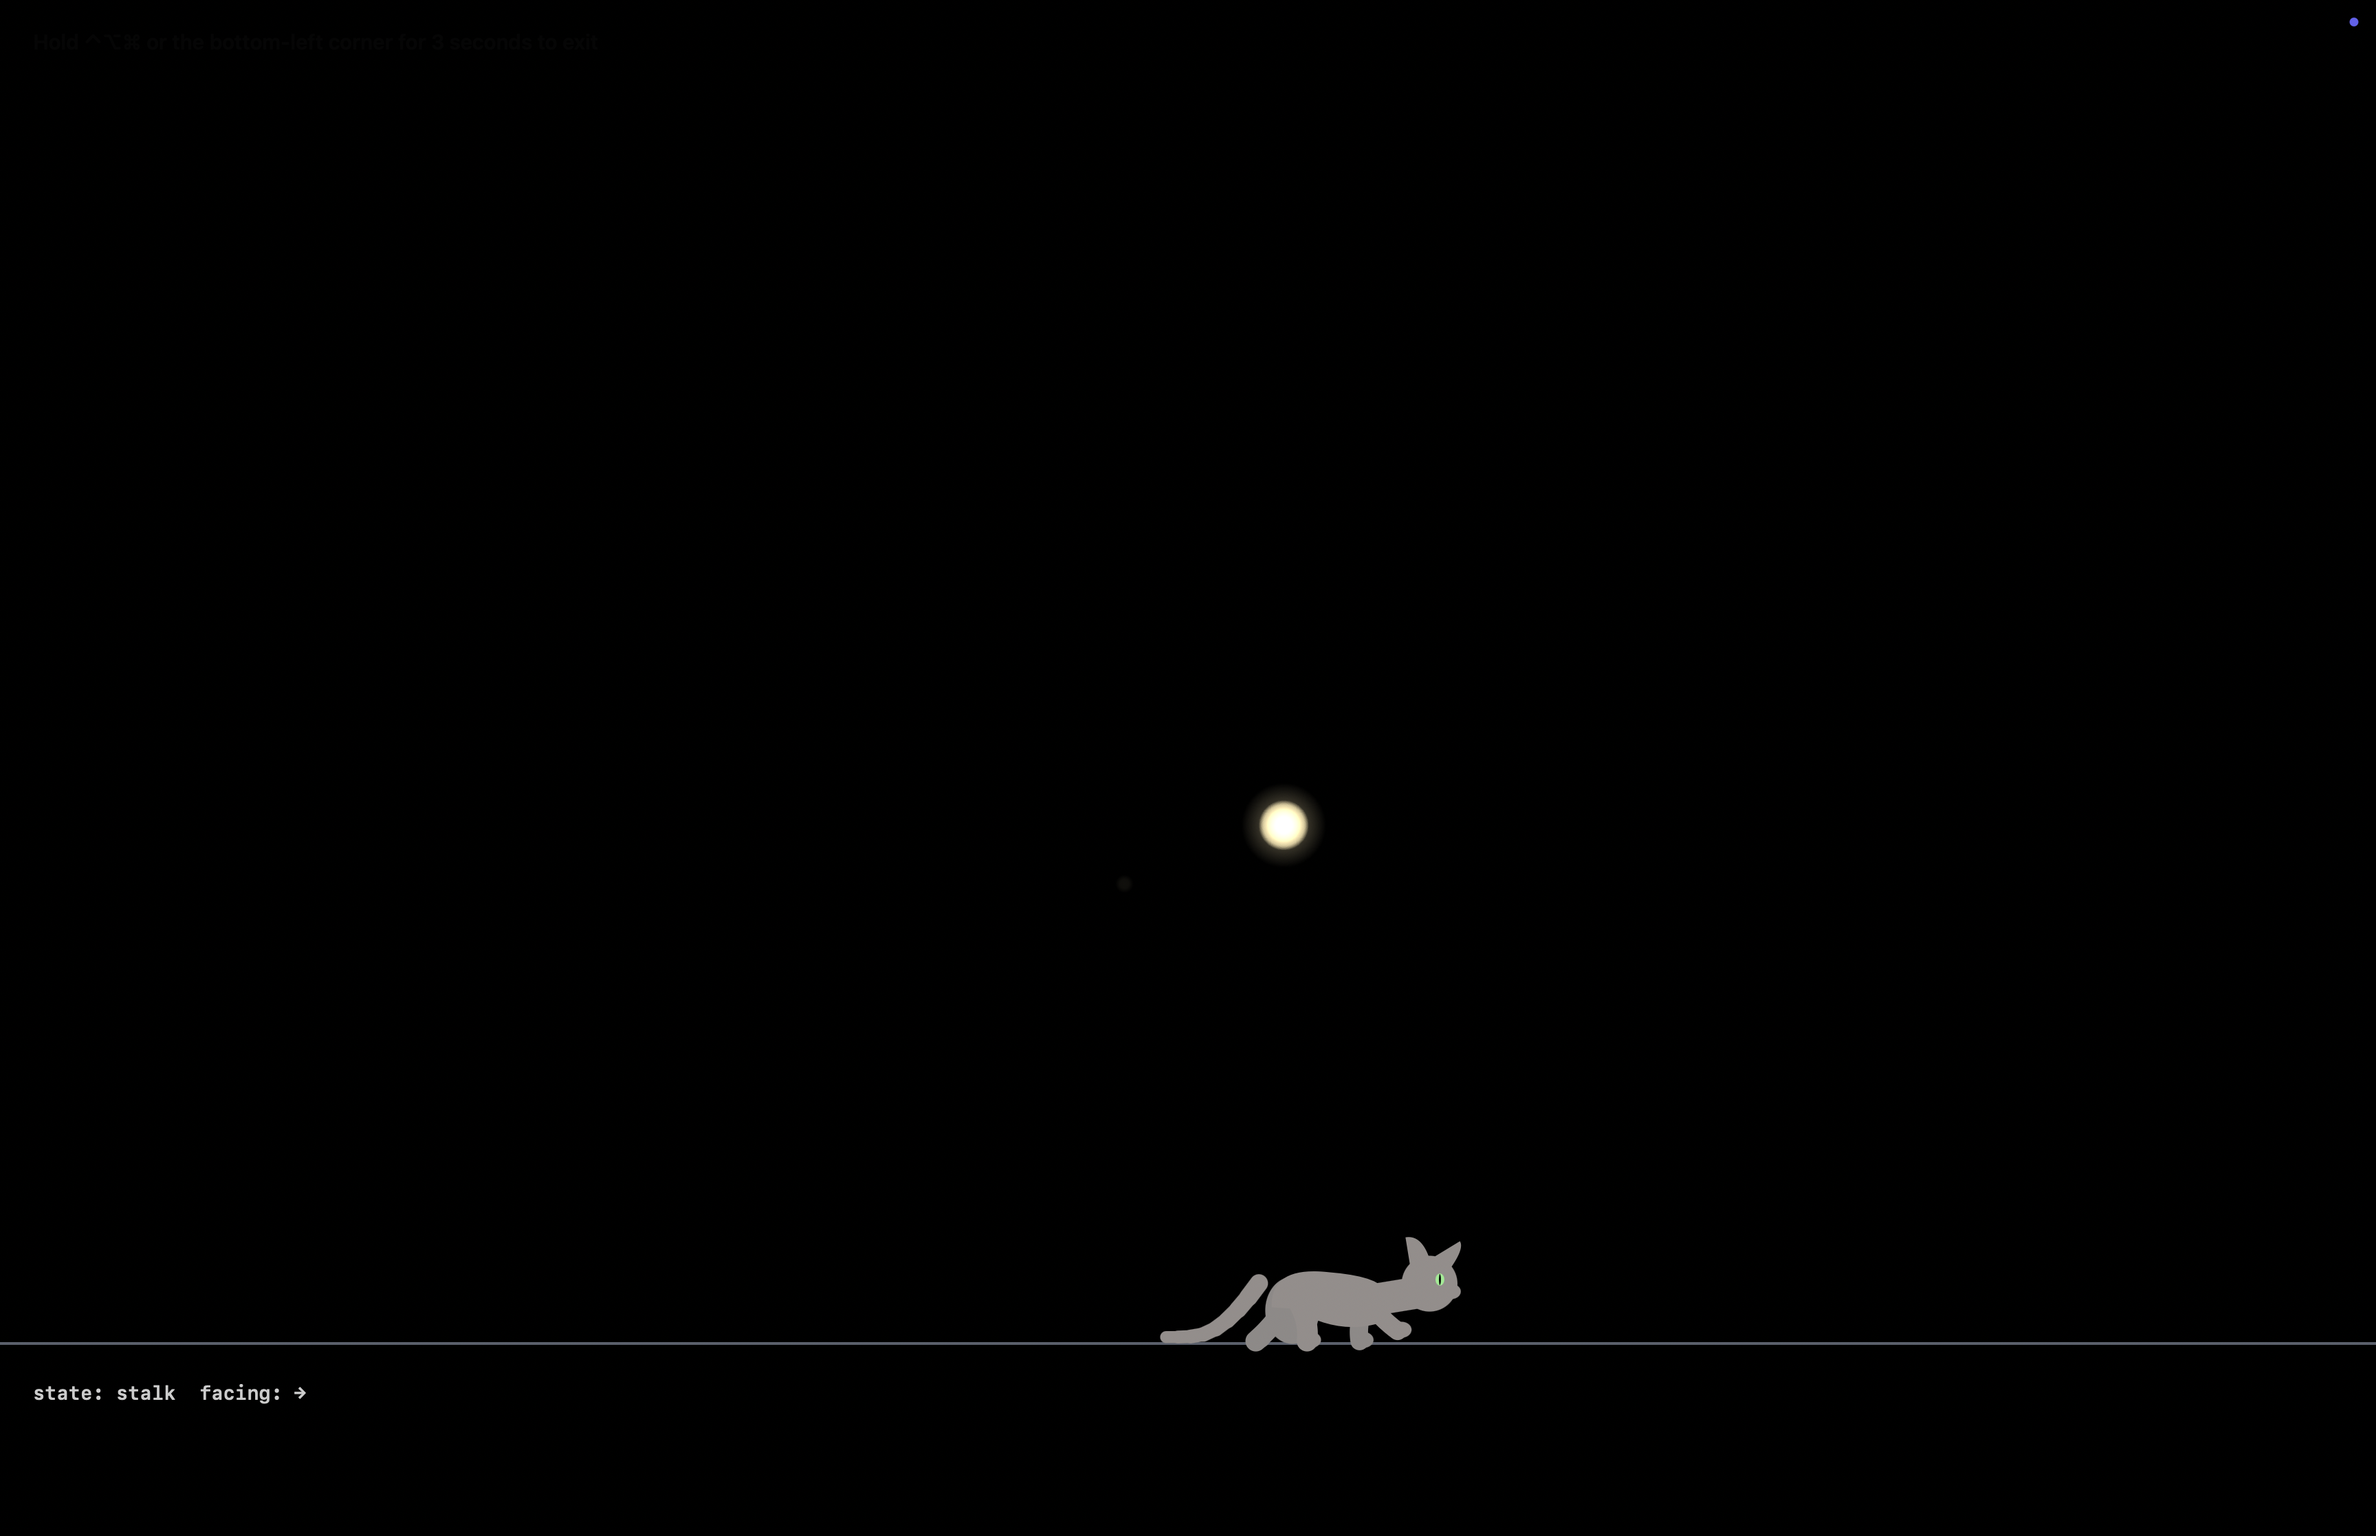
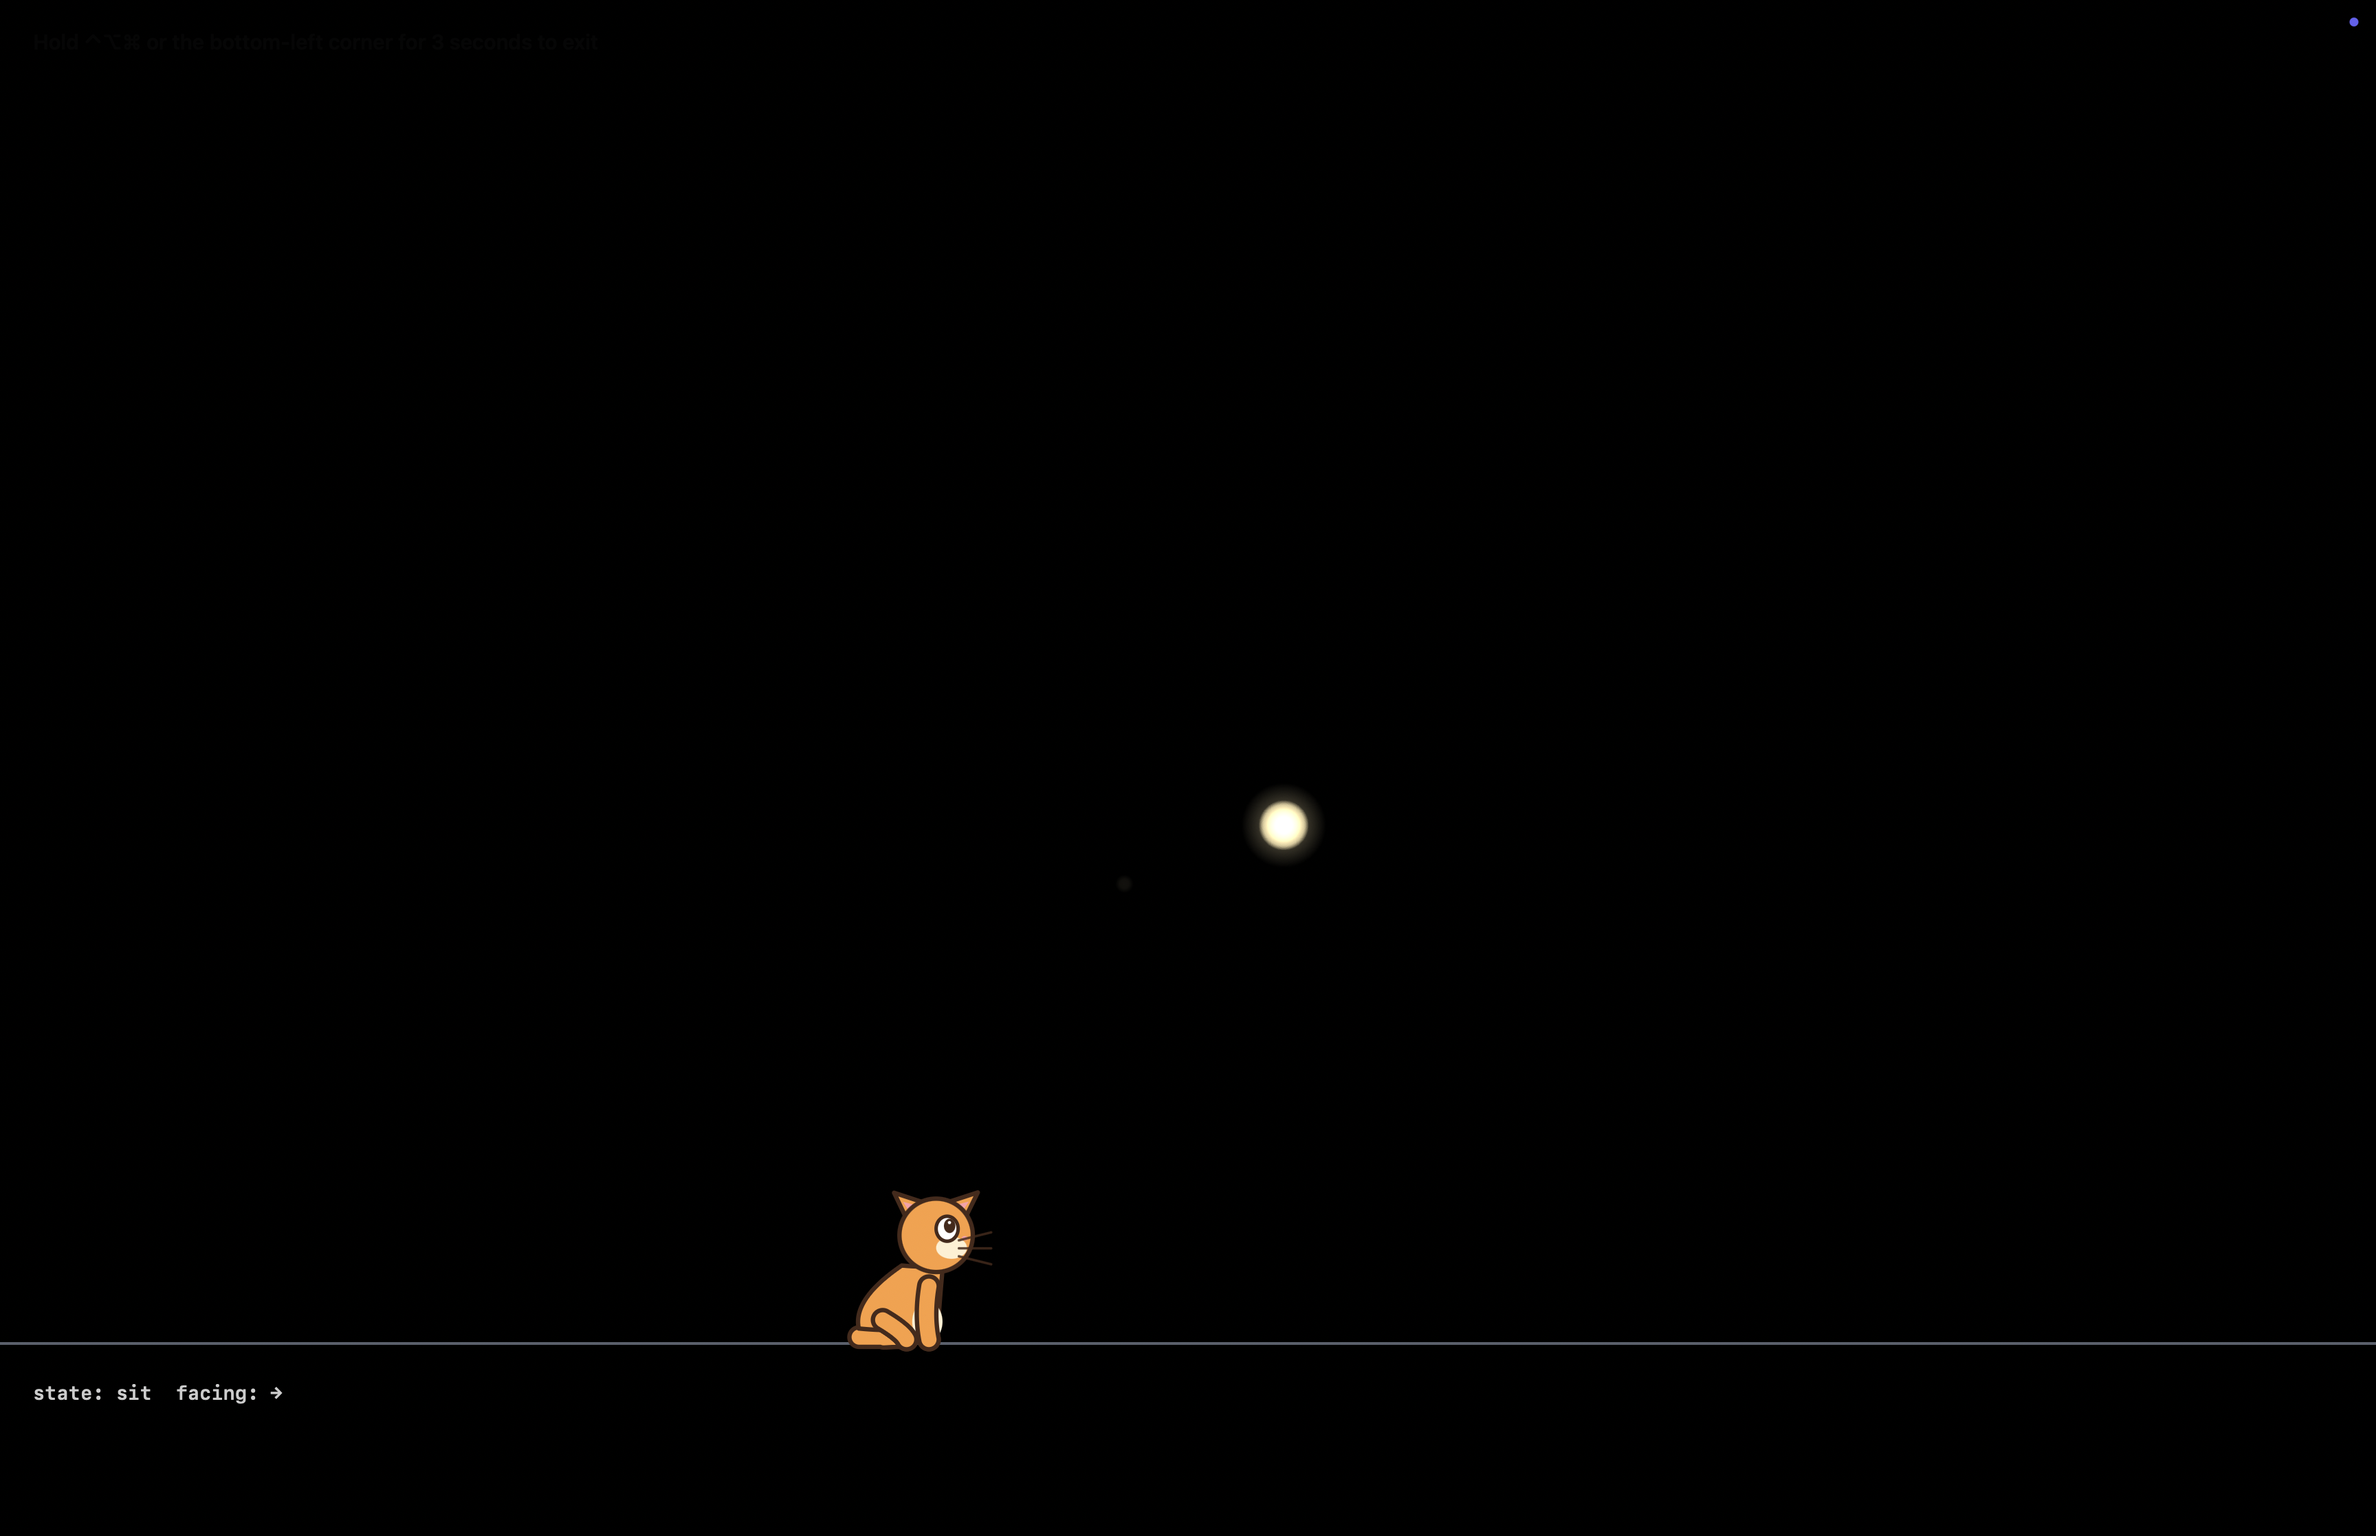
KiddyCat: arcade style — chunky mascot look sharing the silhouette's brain
Second visual direction per user (silhouette kept intact; one rig, two
renderers switched via KiddyCat.style / KP_CATSTYLE=arcade in the lab):
- Chibi proportions: big round head OVERLAPPING a plump bean body (no neck
  gap), stubby outlined legs driven by the same planted-feet gait
- A real cartoon face: big white eye whose pupil TRACKS the laser/interest
  point (with sparkle + blink), pink inner ears, pink nose, whiskers,
  cream chest + muzzle patches
- Orange-tabby palette with dark chocolate outlines on every shape; far
  legs shaded; fat outlined verlet tail rooted inside the body
- Arcade squash & stretch layered on the shared poses; same states, tail
  moods, idle life
Iterated via the screenshot loop: walk (both ears, legs visible, tail
question-mark) and sit (attentive upright mascot) verified.

Changed region(s): [[0.5, 0.803, 0.625, 0.8957], [0.3438, 0.7722, 0.4375, 0.8957], [0.0625, 0.8957, 0.125, 0.9266]]

diff --git a/Sources/kiddyproof/KiddyCat.swift b/Sources/kiddyproof/KiddyCat.swift
@@ -13,6 +13,11 @@ import AppKit
 // Adaptive silhouette: near-black over light backgrounds, warm silver over dark.
 final class KiddyCat {
 
+    // Two looks, one brain: the elegant silhouette and the chunky arcade mascot
+    // share the same skeleton, gait, tail physics, and behavior states.
+    enum Style { case silhouette, arcade }
+    var style: Style = .silhouette
+
     enum State: String {
         case idle, sit, groom, stretch, walk, trot, stalk, pounceWindup, pounceAir, land, startle
     }
@@ -227,8 +232,11 @@ final class KiddyCat {
 
     private func updateTail(dt: CGFloat) {
         let pose = currentPose()
-        let root = NSPoint(x: pos.x - facing * size * (state == .sit || state == .groom ? 0.62 : 0.92),
-                           y: pos.y + size * pose.rumpHeight)
+        let rootBack: CGFloat = style == .arcade
+            ? (state == .sit || state == .groom ? 0.42 : 0.52)
+            : (state == .sit || state == .groom ? 0.62 : 0.92)
+        let root = NSPoint(x: pos.x - facing * size * rootBack,
+                           y: pos.y + size * pose.rumpHeight * (style == .arcade ? 0.72 : 1))
         let seg = size * 0.15
         let (lift, sway) = tailMood()
         // Verlet integrate.
@@ -375,8 +383,13 @@ final class KiddyCat {
 
     // MARK: Draw
 
-    // Colors adapt: ink cat on light pixels, warm silver cat on dark.
     func draw(into ctx: CGContext, origin: CGPoint, inkW w: CGFloat) {
+        if style == .arcade { drawArcade(into: ctx, origin: origin, inkW: w); return }
+        drawSilhouette(into: ctx, origin: origin, inkW: w)
+    }
+
+    // Colors adapt: ink cat on light pixels, warm silver cat on dark.
+    private func drawSilhouette(into ctx: CGContext, origin: CGPoint, inkW w: CGFloat) {
         let pose = currentPose()
         let s = size
         let f = facing
@@ -556,4 +569,182 @@ final class KiddyCat {
         ctx.setAlpha(1)
     }
 
+
+    // MARK: Arcade style — chunky chibi mascot: big head, big tracking eye, bold
+    // outlines, squash & stretch. Same pose anchors as the silhouette.
+    private func drawArcade(into ctx: CGContext, origin: CGPoint, inkW w: CGFloat) {
+        let pose = currentPose()
+        let s = size
+        let f = facing
+        let gx = pos.x - origin.x
+        let gy = pos.y - origin.y
+
+        // Palette: orange tabby with a cream chest, dark chocolate outline.
+        let fur = NSColor(srgbRed: 0.99, green: 0.62, blue: 0.24, alpha: 1)
+        let furShade = NSColor(srgbRed: 0.9, green: 0.5, blue: 0.17, alpha: 1)
+        let cream = NSColor(srgbRed: 1.0, green: 0.94, blue: 0.82, alpha: 1)
+        let outline = NSColor(srgbRed: 0.28, green: 0.16, blue: 0.1, alpha: 1)
+        let pink = NSColor(srgbRed: 1.0, green: 0.62, blue: 0.66, alpha: 1)
+        let lineW = s * 0.055
+
+        @inline(__always) func P(_ x: CGFloat, _ y: CGFloat) -> CGPoint {
+            CGPoint(x: gx + x * f * s, y: gy + y * s)
+        }
+        func fillStroke(_ path: CGPath, _ fill: NSColor) {
+            ctx.addPath(path); ctx.setFillColor(fill.cgColor); ctx.fillPath()
+            ctx.addPath(path); ctx.setStrokeColor(outline.cgColor); ctx.setLineWidth(lineW); ctx.strokePath()
+        }
+
+        // Squash & stretch: arcade exaggeration on top of the pose.
+        let squash = 1 - pose.crouch * 0.3 + pose.bodyStretch * 0.2
+        let shoulderX: CGFloat = (0.44 - pose.sitFold * 0.22)
+        let rumpX: CGFloat = -0.5
+        let shoulderY = pose.shoulderHeight * 0.82 * squash
+        let rumpY = pose.rumpHeight * 0.82 * squash
+        let headX = pose.headForward * 0.58
+        let headY = (pose.headHeight * 0.92 + 0.04) * squash
+        let stride = strideLength()
+
+        ctx.setLineCap(.round)
+        ctx.setLineJoin(.round)
+        ctx.setAlpha(1)
+        ctx.setBlendMode(.normal)
+
+        // --- Tail: fat outlined rope with the same verlet points ---
+        let tailPath = CGMutablePath()
+        tailPath.move(to: CGPoint(x: tail[0].x - origin.x, y: tail[0].y - origin.y))
+        for i in 1..<tail.count {
+            tailPath.addLine(to: CGPoint(x: tail[i].x - origin.x, y: tail[i].y - origin.y))
+        }
+        ctx.addPath(tailPath); ctx.setStrokeColor(outline.cgColor); ctx.setLineWidth(s * 0.3); ctx.strokePath()
+        ctx.addPath(tailPath); ctx.setStrokeColor(fur.cgColor); ctx.setLineWidth(s * 0.3 - lineW * 2); ctx.strokePath()
+
+        // --- Legs (far pair shaded) ---
+        func leg(front: Bool, far: Bool) {
+            let legIdx = (front ? 0 : 2) + (far ? 1 : 0)
+            let rootX = front ? shoulderX - 0.02 : rumpX + 0.12
+            let rootY = front ? shoulderY - 0.1 : rumpY - 0.08
+            var footX = rootX
+            var footY: CGFloat = 0
+            if pose.sitFold > 0.5 && !front {
+                footX = rootX + 0.3; footY = 0
+            } else {
+                let (dx, lift) = footOffset(legIdx, stride: stride / s)
+                footX = rootX + dx
+                footY = lift / s
+                if state == .pounceAir { footX = rootX + (front ? 0.3 : -0.26); footY = 0.24 }
+            }
+            let path = CGMutablePath()
+            path.move(to: P(rootX, rootY))
+            path.addQuadCurve(to: P(footX, footY + 0.05),
+                              control: P((rootX + footX) / 2 + (front ? -0.06 : 0.1), (rootY + footY) / 2))
+            ctx.addPath(path); ctx.setStrokeColor(outline.cgColor); ctx.setLineWidth(s * 0.3); ctx.strokePath()
+            ctx.addPath(path); ctx.setStrokeColor((far ? furShade : fur).cgColor)
+            ctx.setLineWidth(s * 0.3 - lineW * 2); ctx.strokePath()
+        }
+        leg(front: true, far: true)
+        leg(front: false, far: true)
+
+        // --- Body: one plump bean ---
+        let body = CGMutablePath()
+        let midTop = max(shoulderY, rumpY) + 0.16 + pose.backArch
+        let belly: CGFloat = 0.2 - pose.crouch * 0.1   // high enough that legs SHOW
+        body.move(to: P(rumpX - 0.18, rumpY * 0.5))
+        body.addQuadCurve(to: P((rumpX + shoulderX) / 2, midTop), control: P(rumpX - 0.26, rumpY + 0.18))
+        // Chest rises to tuck UNDER the skull — head and body must overlap, never gap.
+        body.addQuadCurve(to: P(headX + 0.1, headY - 0.1), control: P(shoulderX + 0.26, shoulderY + 0.1))
+        body.addQuadCurve(to: P(shoulderX + 0.1, belly), control: P(headX + 0.02, belly + 0.1))
+        body.addQuadCurve(to: P(rumpX - 0.18, rumpY * 0.5), control: P(rumpX * 0.4, belly - 0.06))
+        body.closeSubpath()
+        fillStroke(body, fur)
+
+        // Cream chest patch.
+        let chest = CGMutablePath()
+        chest.addEllipse(in: CGRect(x: P(shoulderX - 0.04, 0.02).x - s * 0.19 * f,
+                                    y: P(0, 0.02).y, width: s * 0.38, height: s * (shoulderY * 0.62)))
+        ctx.addPath(chest); ctx.setFillColor(cream.cgColor); ctx.fillPath()
+
+        // --- Near legs over the body ---
+        leg(front: true, far: false)
+        leg(front: false, far: false)
+
+        // --- Head: BIG circle with ears, face, whiskers ---
+        let hp = headPitch
+        let R: CGFloat = 0.46
+        let hcx = headX, hcy = headY + hp * 0.2
+        let headC = P(hcx, hcy)
+        let Rs = R * s
+
+        // Ears first (behind the head): outlined triangles with pink inner.
+        let earLen = R * (0.55 + 0.45 * pose.earPerk)
+        let flick = earFlick * 0.1
+        func ear(_ baseA: CGFloat, _ tipA: CGFloat) {
+            let e = CGMutablePath()
+            let a1 = baseA - 0.4, a2 = baseA + 0.4
+            e.move(to: P(hcx + cos(a1) * R * 0.9, hcy + sin(a1) * R * 0.9))
+            e.addLine(to: P(hcx + cos(tipA) * (R * 0.72 + earLen), hcy + sin(tipA) * (R * 0.72 + earLen)))
+            e.addLine(to: P(hcx + cos(a2) * R * 0.9, hcy + sin(a2) * R * 0.9))
+            e.closeSubpath()
+            fillStroke(e, fur)
+            // Pink inner ear.
+            let inner = CGMutablePath()
+            let m1 = baseA - 0.2, m2 = baseA + 0.2
+            inner.move(to: P(hcx + cos(m1) * R * 0.88, hcy + sin(m1) * R * 0.88))
+            inner.addLine(to: P(hcx + cos(tipA) * (R * 0.72 + earLen * 0.62), hcy + sin(tipA) * (R * 0.72 + earLen * 0.62)))
+            inner.addLine(to: P(hcx + cos(m2) * R * 0.88, hcy + sin(m2) * R * 0.88))
+            inner.closeSubpath()
+            ctx.addPath(inner); ctx.setFillColor(pink.cgColor); ctx.fillPath()
+        }
+        ear(2.25, 2.35 + flick)
+        ear(0.92, 0.8)
+
+        // Skull.
+        let skull = CGMutablePath()
+        skull.addEllipse(in: CGRect(x: headC.x - Rs, y: headC.y - Rs, width: Rs * 2, height: Rs * 2))
+        fillStroke(skull, fur)
+
+        // Cream muzzle patch (lower front of the face).
+        let mz = P(hcx + R * 0.42, hcy - R * 0.34)
+        ctx.setFillColor(cream.cgColor)
+        ctx.fillEllipse(in: CGRect(x: mz.x - Rs * 0.42, y: mz.y - Rs * 0.3, width: Rs * 0.84, height: Rs * 0.6))
+
+        // Big eye with a pupil that TRACKS the interest point (instant charm).
+        let eyeOpen = 1 - blinkPhase
+        let ec = P(hcx + R * 0.3, hcy + R * 0.18)
+        let ew = Rs * 0.3, eh = Rs * 0.34 * max(0.12, eyeOpen)
+        ctx.setFillColor(NSColor.white.cgColor)
+        ctx.fillEllipse(in: CGRect(x: ec.x - ew, y: ec.y - eh, width: ew * 2, height: eh * 2))
+        ctx.setStrokeColor(outline.cgColor); ctx.setLineWidth(lineW * 0.8)
+        ctx.strokeEllipse(in: CGRect(x: ec.x - ew, y: ec.y - eh, width: ew * 2, height: eh * 2))
+        if eyeOpen > 0.15 {
+            var px: CGFloat = 0, py: CGFloat = 0
+            if let i = interest {
+                let dx = (i.x - pos.x) * facing, dy = i.y - pos.y - size
+                let m = max(60, sqrt(dx * dx + dy * dy))
+                px = dx / m * ew * 0.35; py = dy / m * eh * 0.3
+            }
+            let pr = ew * 0.52
+            ctx.setFillColor(outline.cgColor)
+            ctx.fillEllipse(in: CGRect(x: ec.x + px * f - pr, y: ec.y + py - pr * 1.25,
+                                       width: pr * 2, height: pr * 2.5))
+            // Sparkle.
+            ctx.setFillColor(NSColor.white.cgColor)
+            ctx.fillEllipse(in: CGRect(x: ec.x + px * f - pr * 0.3, y: ec.y + py + pr * 0.3,
+                                       width: pr * 0.55, height: pr * 0.55))
+        }
+
+        // Nose + whiskers.
+        let nose = P(hcx + R * 0.78, hcy - R * 0.08)
+        ctx.setFillColor(pink.cgColor)
+        ctx.fillEllipse(in: CGRect(x: nose.x - Rs * 0.08, y: nose.y - Rs * 0.06, width: Rs * 0.16, height: Rs * 0.12))
+        ctx.setStrokeColor(outline.withAlphaComponent(0.85).cgColor)
+        ctx.setLineWidth(lineW * 0.55)
+        for (dy, tilt) in [(0.02, 0.1), (-0.08, 0.0), (-0.18, -0.1)] {
+            ctx.beginPath()
+            ctx.move(to: P(hcx + R * 0.62, hcy - R * 0.18 + dy))
+            ctx.addLine(to: P(hcx + R * 1.5, hcy - R * 0.18 + dy + tilt))
+            ctx.strokePath()
+        }
+        ctx.setAlpha(1)
+    }
 }

diff --git a/Sources/kiddyproof/CatLabScene.swift b/Sources/kiddyproof/CatLabScene.swift
@@ -53,7 +53,9 @@ final class CatLabScene: Scene {
 
         if cat == nil {
             let ground = ctx.bounds.minY + 140
-            cat = KiddyCat(at: NSPoint(x: ctx.bounds.midX - 200, y: ground), groundY: ground, size: 58)
+            let c = KiddyCat(at: NSPoint(x: ctx.bounds.midX - 200, y: ground), groundY: ground, size: 58)
+            if ProcessInfo.processInfo.environment["KP_CATSTYLE"] == "arcade" { c.style = .arcade }
+            cat = c
         }
         guard let cat = cat else { return }
 
